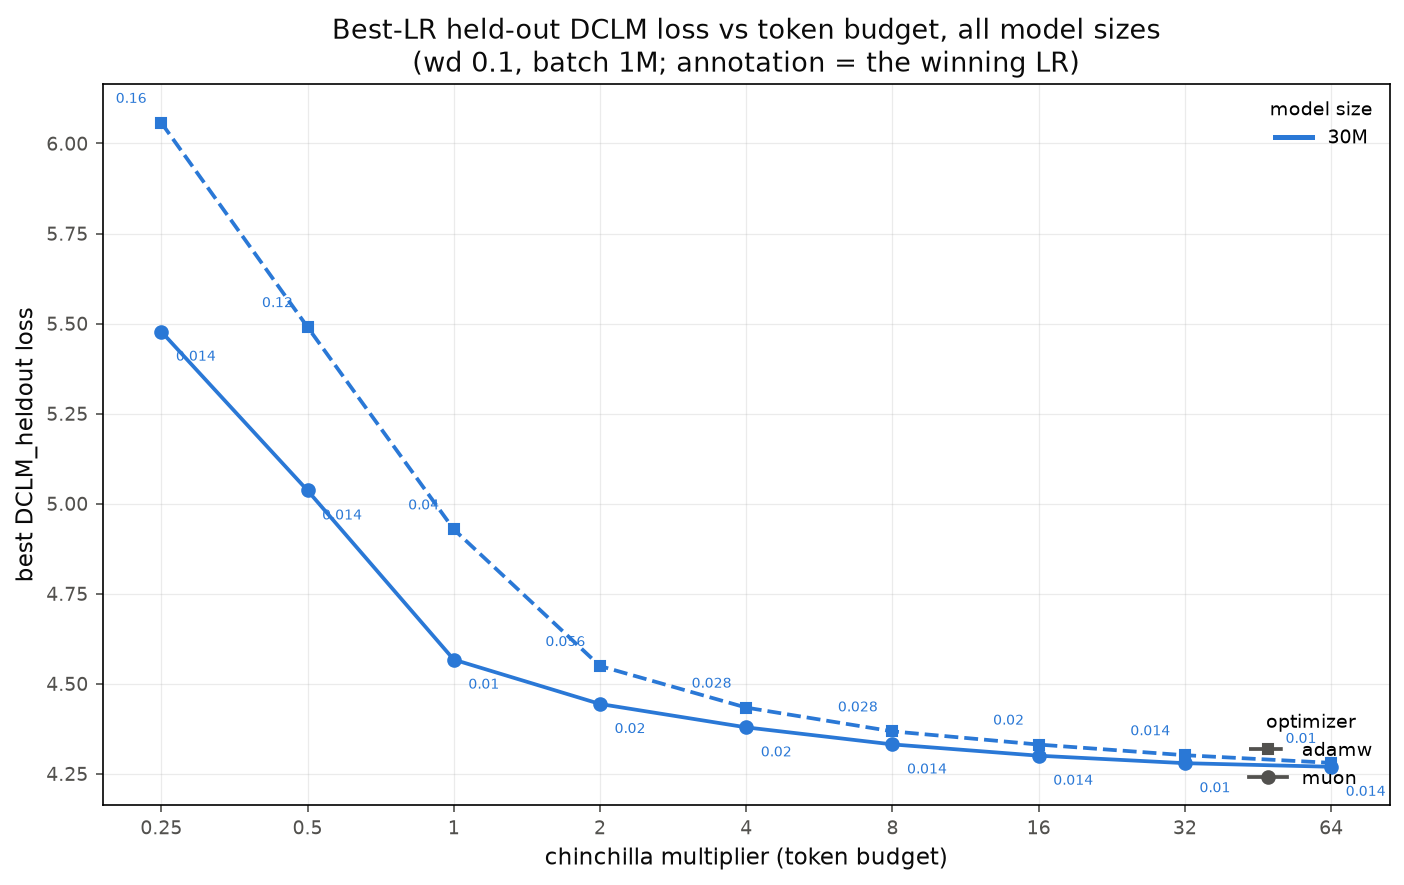
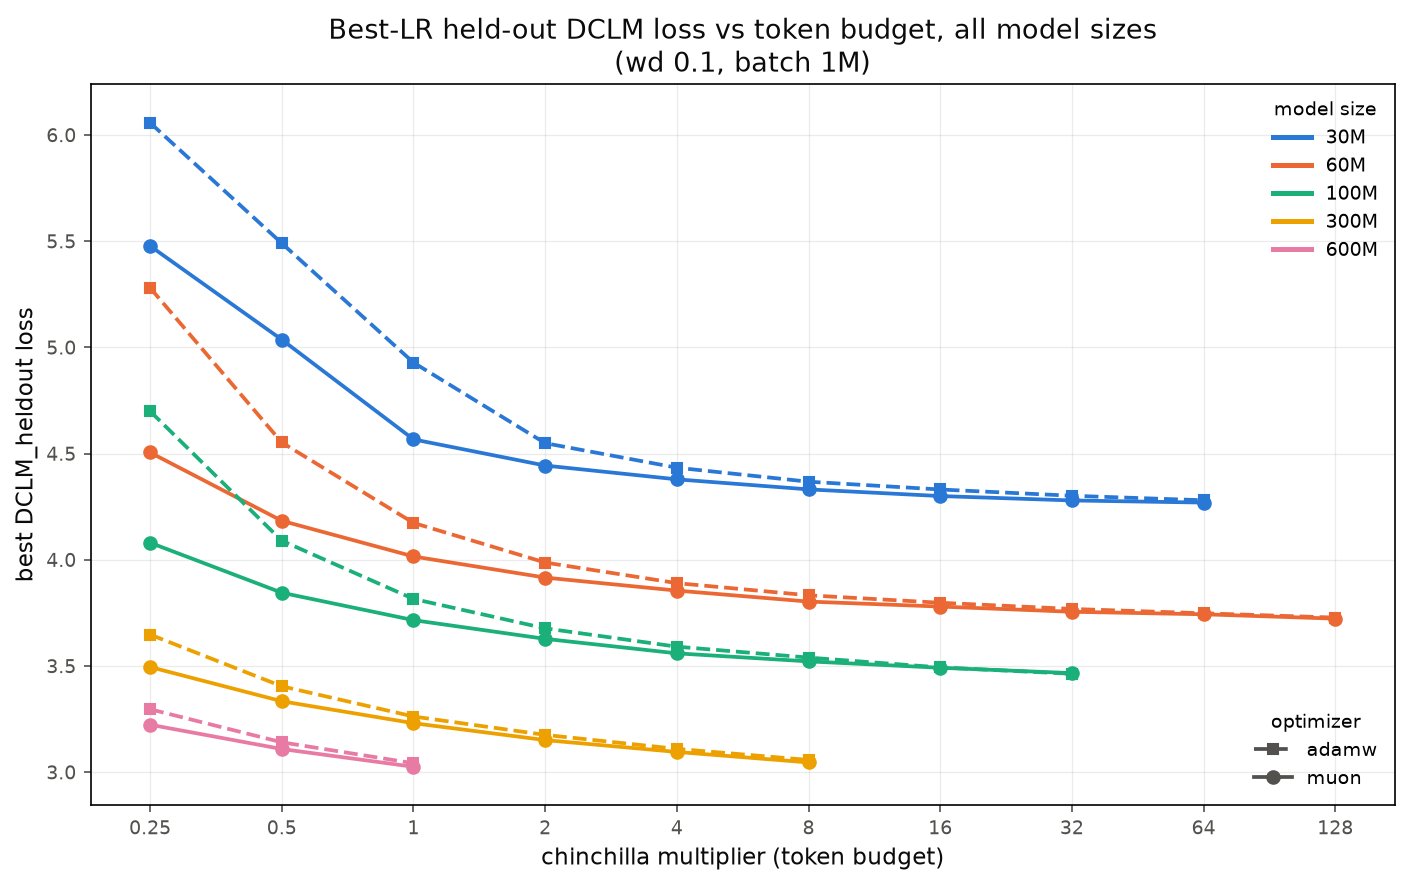
Drop winning-LR annotations from the combined best-LR figure
pt-lr-dclm-best-combined now renders without per-point LR labels, and the
title's 'annotation = the winning LR' clause is only emitted when annotations
are on, so the caption never describes labels that are not there.

diff --git a/new_utils/plot_pt_lr_dclm_all.py b/new_utils/plot_pt_lr_dclm_all.py
@@ -360,7 +360,8 @@ def plot_best_combined(all_summary, out, annotate=True):
     ax.set_xlabel("chinchilla multiplier (token budget)", fontsize=11, color=INK)
     ax.set_ylabel(f"best {LABEL} loss", fontsize=11, color=INK)
     ax.set_title("Best-LR held-out DCLM loss vs token budget, all model sizes\n"
-                 "(wd 0.1, batch 1M; annotation = the winning LR)",
+                 "(wd 0.1, batch 1M" + ("; annotation = the winning LR)" if annotate
+                                        else ")"),
                  fontsize=13, color=INK)
     ax.grid(True, alpha=0.25, linewidth=0.6)
     ax.tick_params(labelsize=9, colors=MUTED)
@@ -487,7 +488,8 @@ def main():
             all_table[size] = ts
     plot_best(all_summary, os.path.join(a.out_dir, "pt-lr-dclm-best-all-sizes"))
     plot_best_combined(all_summary,
-                       os.path.join(a.out_dir, "pt-lr-dclm-best-combined"))
+                       os.path.join(a.out_dir, "pt-lr-dclm-best-combined"),
+                       annotate=False)
     plot_best_panels(all_summary,
                      os.path.join(a.out_dir, "pt-lr-dclm-best-panels"))
     plot_best(all_table,
